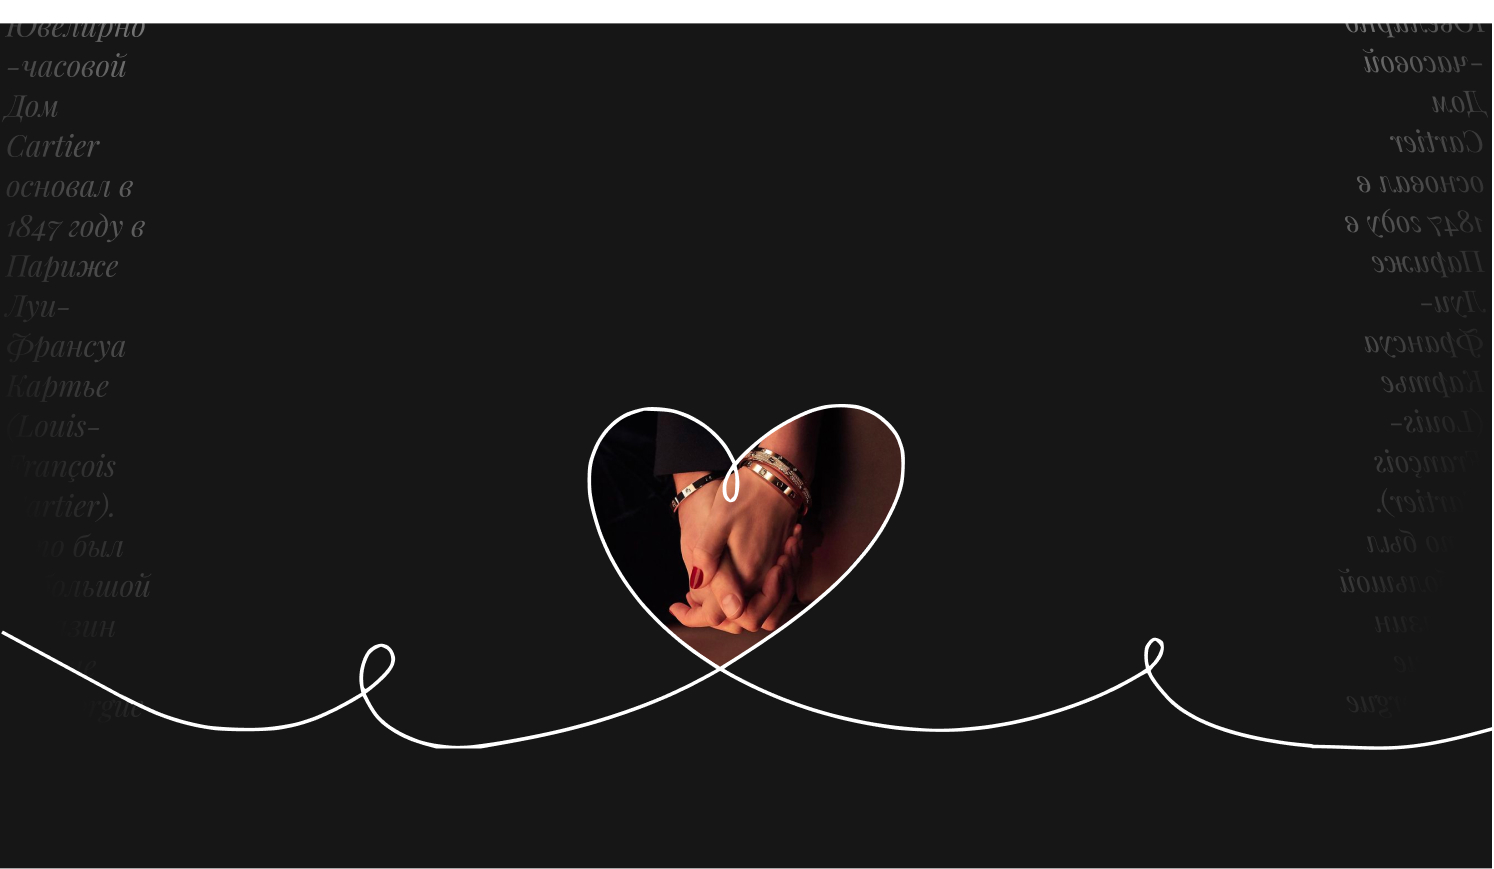
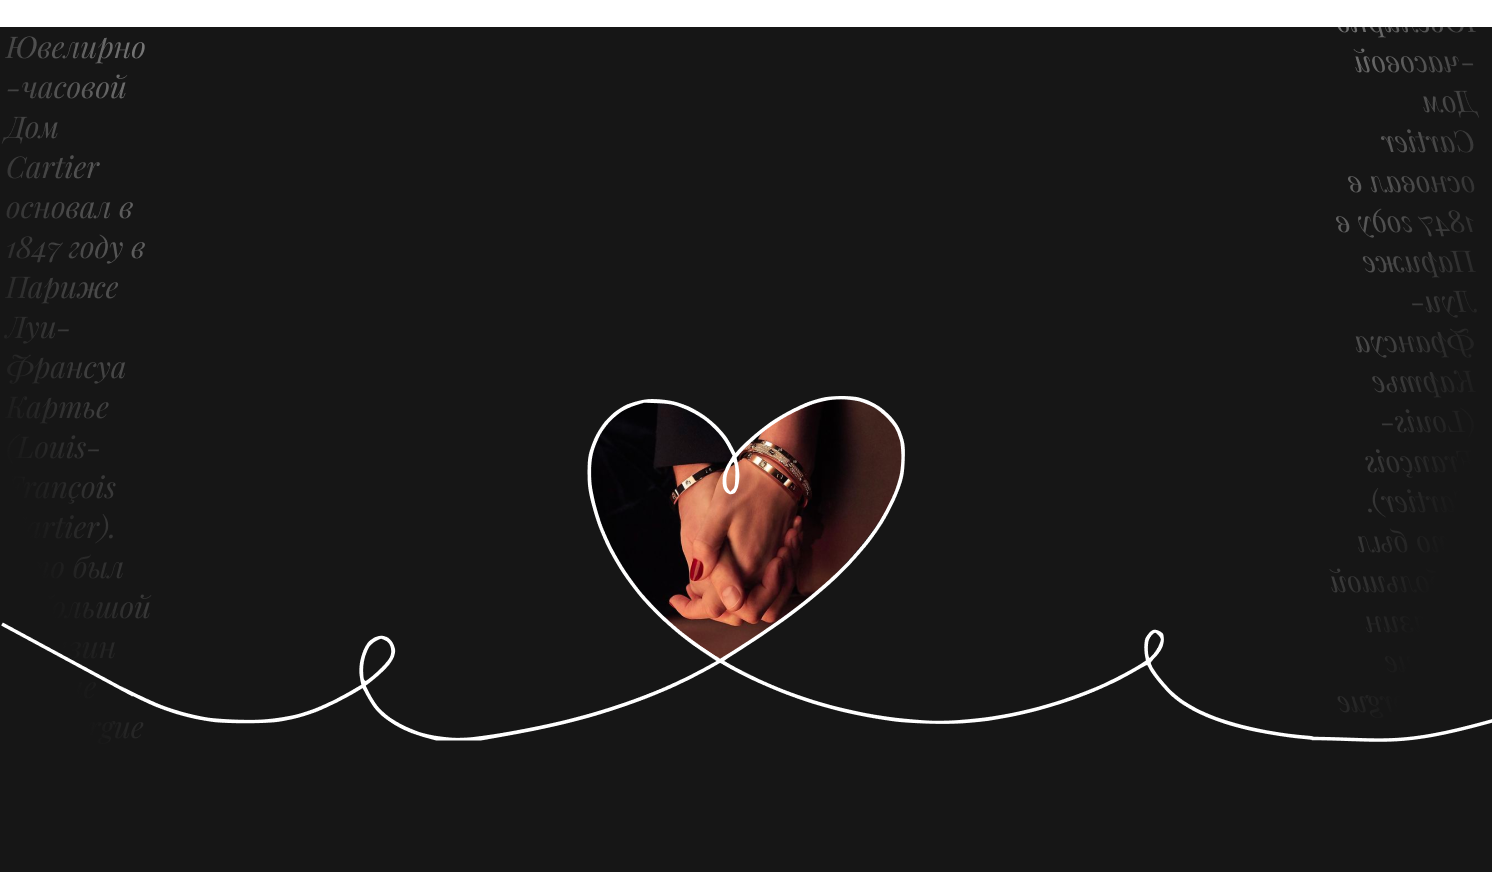
new

diff --git a/cartier.html b/cartier.html
@@ -43,13 +43,15 @@
     </header>
     <section class="main-section">
         <div class="main__navigation">
-            <a href="./jewelry.html" class="bttn">
+            <a href="./history.html" class="bttn">
                 <img src="./img/jewelry/btn.svg" alt="">
             </a>
         </div>
         <div class="background">
             <div class="banner">
                 <div class="banner__cartier">
+                    <h2 class="banner__heading">Cartier</h2>
+                    <p class="text__cartier">История ювелирного дома</p>
                 </div>
                 <div class="tiffany">
                     <div class="origin info_wrapper" id="1837">
@@ -120,9 +122,24 @@
                         </div>
                         <img class="info_img almaz_img" src="./img/tiffany/watches.png" alt="">
                     </div>
+                    <div class="years_cartier">
+                        <div class="cartier_img">
+                            <img src="./img/tiffany/cartierlogo.png" alt="">
+                        </div>
+                        <div class="years_img">
+                            <img src="./img/tiffany/years.png" alt="">
+                            <div class="number__nav">
+                                <a class="num__link" href="#1837">1847</a>
+                                <a class="num__link" href="#1845">1853</a>
+                                <a class="num__link" href="#1848">1898</a>
+                                <a class="num__link" href="#1853">1904</a>
+                                <a class="num__link" href="#1861">1909</a>
+                                <a class="num__link" href="#1878">1917</a>
+                            </div>
+                        </div>
+                    </div>
                 </div>
             </div>
-        </div>
         </div>
         </div>
     </section>

diff --git a/stylesheet/tiffany.css b/stylesheet/tiffany.css
@@ -11,7 +11,7 @@
     flex-direction: column;
     row-gap: 280px;
     width: 100%;
-    padding-top: 149px;
+    padding-top: 1150px;
 }
 
 .tiffany_history {
@@ -21,9 +21,33 @@
     width: 100%;
 
 }
-.banner__cartier {
-    background: url(../img/zircon/bannerzircon.jpg) center center no-repeat;
+
+.banner {
+    background: url(../img/tiffany/cartierbanner.png) no-repeat;
+    box-sizing: border-box;
+    position: relative;
+    display: flex;
+    flex-direction: column;
+    align-items: center;
 }
+
+.banner__cartier {
+    color: #FFFFFF;
+    align-content: center;
+    font-family: 'TT Firs Neue Trl', sans-serif;
+    padding: 68px 343px 0px 475px;
+}
+
+.banner__heading {
+    font-size: 85px;
+    font-weight: 200;
+}
+
+.text__cartier {
+    font-size: 25px;
+
+}
+
 .num {
     display: flex;
     flex-direction: column;
@@ -130,4 +154,26 @@
 .box_img {
     width: 289px;
     height: 383px;
+}
+
+.years_cartier {
+    display: flex;
+    flex-direction: column;
+    align-items: center;
+    column-gap: 72px;
+}
+
+.years_img {
+    padding-left: 20px;
+}
+
+.cartier_img {
+    padding-bottom: 72px;
+}
+
+.number__nav {
+    display: flex;
+    flex-direction: row;
+    gap: 50px;
+    margin-left: 445px;
 }

diff --git a/history.html b/history.html
@@ -65,7 +65,7 @@
                         <button class="bttn back">
                             <img class="bvg__img" src="./img/history/back.svg" alt="">
                         </button>
-                        <a href="./tiffany.html">
+                        <a href="./cartier.html">
                             <img src="./img/history/1.jpg" href="./tiffany.html" alt="">
                         </a>
                         <button class="bttnpr bttn arrow">

diff --git a/stones.html b/stones.html
@@ -175,7 +175,7 @@
                 </div>
             </div>
         </div>
-        <div class="rhombus">
+        <div class="rhombus hidden">
             <div class="diamond" id="diamond1"></div>
             <div class="diamond" id="diamond2"></div>
             <div class="diamond" id="diamond3"></div>

diff --git a/stylesheet/trends.css b/stylesheet/trends.css
@@ -102,7 +102,7 @@
 
 
 .diamond.active {
-    background-color: #fff;
+    background-color: #494946;
     /* Белый цвет для закрашенных ромбиков */
     /* border: 3px solid #D9D9D9; Черная граница для всех ромбиков */
 }

diff --git a/stylesheet/stones.css b/stylesheet/stones.css
@@ -78,3 +78,8 @@
 .hidden {
     display: none;
 }
+.rhombus {
+    display: flex;
+    flex-direction: row;
+    gap: 21px;}
+    

diff --git a/stylesheet/search.css b/stylesheet/search.css
@@ -41,6 +41,7 @@
     padding-top: 40px;
     background: transparent;
     border-radius: 10px;
+    padding-bottom: 50px;
 
 }
 
